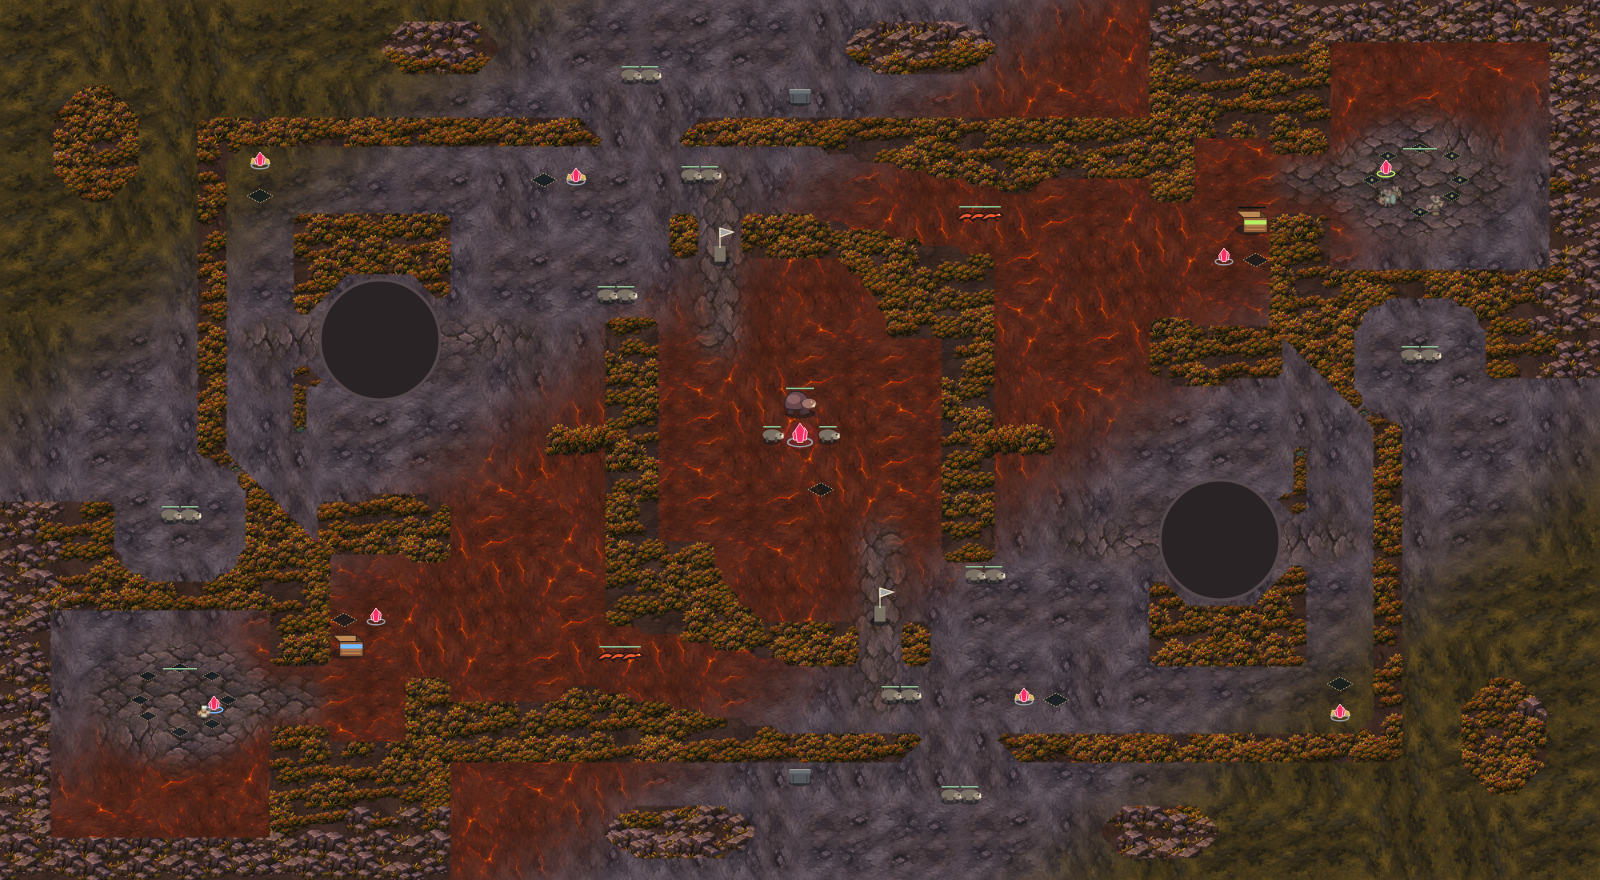
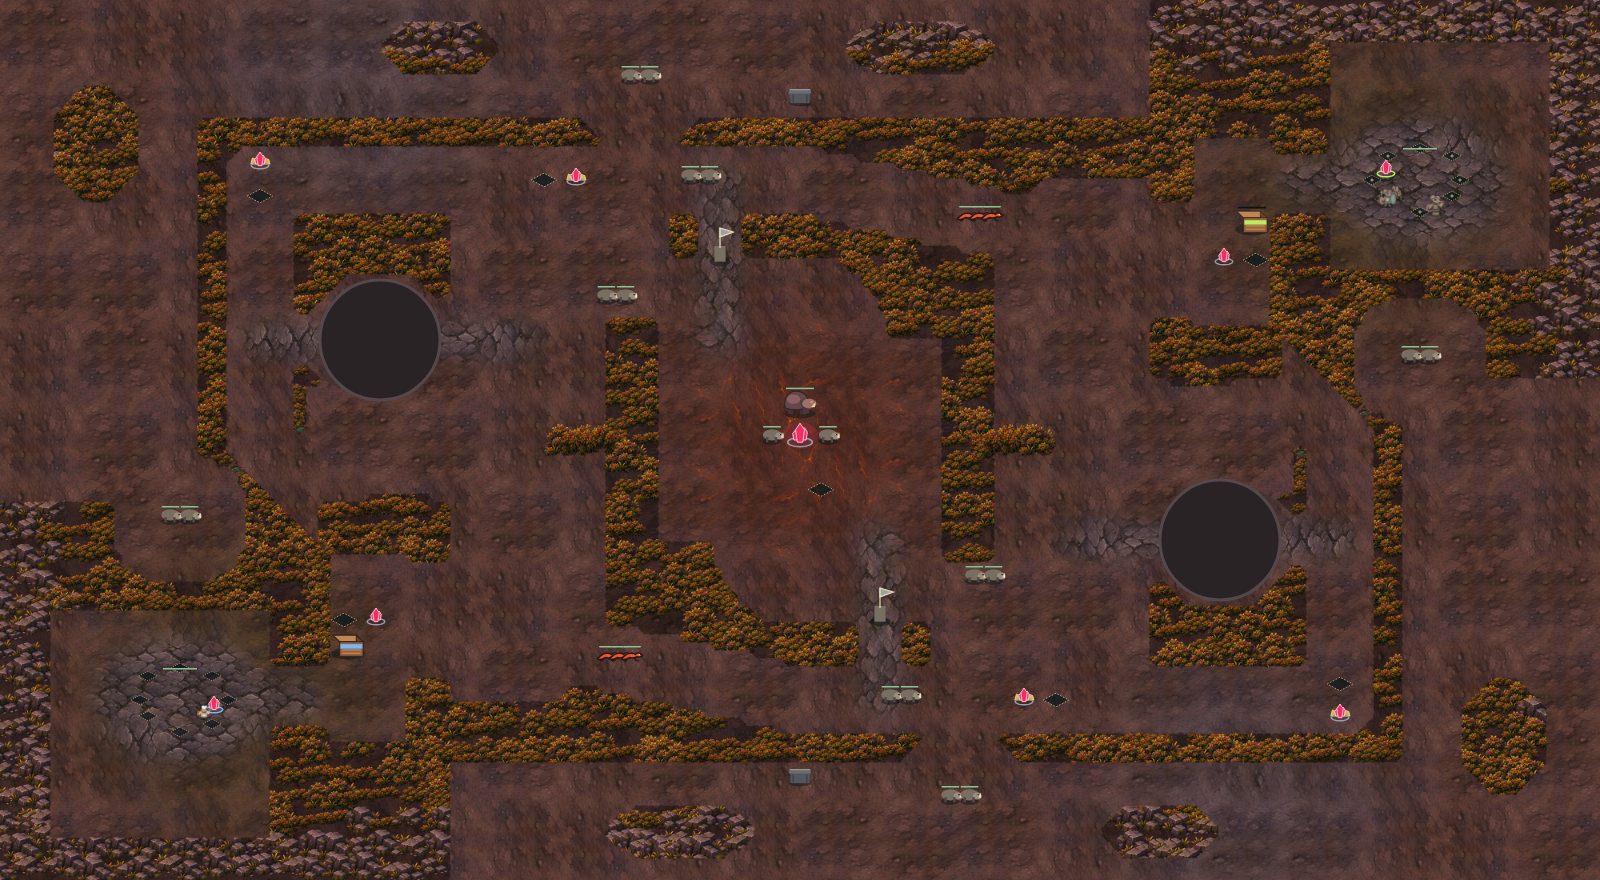
Codex : #314 Intégration DA 1/3 : le sol et les haies utilisent les tuiles peintes

diff --git a/public/game/terrain.js b/public/game/terrain.js
@@ -1,8 +1,14 @@
-const ZONE_AXIS_X = 0.58;
-const ZONE_AXIS_Y = 0.42;
+// The noise can add at most 0.15 to the distance slope, so the fade spans over 450 px.
+const ZONE_FADE = 520;
+const ZONE_NOISE_SCALE = 760;
+const GROUND_ZONES = [
+  { texture: 'sol-cendres', offsetX: -1120, offsetY: -900, radius: 40, strength: 0.56 },
+  { texture: 'sol-braises', offsetX: 0, offsetY: 0, radius: 25, strength: 0.62 },
+  { texture: 'sol-mousse', offsetX: -1420, offsetY: 630, radius: 45, strength: 0.58 },
+];
 const TILE_SIZE = 256;
 const TILE_STEP = 200;
-const GROUND = ['sol-terre', 'sol-cendres', 'sol-braises', 'sol-mousse', 'sol-paves'];
+const GROUND = ['sol-terre', ...GROUND_ZONES.map(({ texture }) => texture), 'sol-paves'];
 const HEDGES = ['haie-1', 'haie-2', 'haie-3'];
 const ROCKS = ['rocher-1', 'rocher-2', 'rocher-3'];
 const PONDS = ['mare-1', 'mare-2'];
@@ -12,13 +18,29 @@ function smoothstep(start, end, value) {
   return position * position * (3 - 2 * position);
 }
 
+function zoneNoise(x, y) {
+  const column = Math.floor(x / ZONE_NOISE_SCALE);
+  const row = Math.floor(y / ZONE_NOISE_SCALE);
+  const across = smoothstep(0, 1, x / ZONE_NOISE_SCALE - column);
+  const down = smoothstep(0, 1, y / ZONE_NOISE_SCALE - row);
+  const top = cellHash(row, column) * (1 - across) + cellHash(row, column + 1) * across;
+  const bottom = cellHash(row + 1, column) * (1 - across) + cellHash(row + 1, column + 1) * across;
+  return (top * (1 - down) + bottom * down) / 0xffffffff;
+}
+
 export function terrainZone(x, y, width, height) {
-  // Fold the diagonal gradient at the center so every region has a rotated counterpart.
-  const projection = (x - width / 2) * (ZONE_AXIS_X / width) + (y - height / 2) * (ZONE_AXIS_Y / height);
-  const distance = Math.round(Math.abs(projection) * 1e9) / 1e9;
-  const braises = 1 - smoothstep(0.075, 0.145, distance);
-  const marecage = smoothstep(0.26, 0.34, distance);
-  return [1 - braises - marecage, braises, marecage];
+  const dx = x - width / 2;
+  const dy = y - height / 2;
+  // Average opposite points to keep the low-frequency distortion rotationally symmetric.
+  const distortion = 52 * (zoneNoise(dx, dy) + zoneNoise(-dx, -dy) - 1);
+  const accents = GROUND_ZONES.map(({ offsetX, offsetY, radius, strength }) => {
+    const distance = Math.min(
+      Math.hypot(dx - offsetX, dy - offsetY),
+      Math.hypot(dx + offsetX, dy + offsetY),
+    );
+    return strength * (1 - smoothstep(radius, radius + ZONE_FADE, distance + distortion));
+  });
+  return [1 - accents.reduce((sum, weight) => sum + weight, 0), ...accents];
 }
 
 function cellHash(row, column) {
@@ -55,26 +77,27 @@ export function hedgeOffset(row, column) {
   };
 }
 
-function zoneMask(context, width, height, zone) {
-  const axisX = ZONE_AXIS_X / width;
-  const axisY = ZONE_AXIS_Y / height;
-  const halfLength = 0.5 / (axisX * axisX + axisY * axisY);
-  const deltaX = axisX * halfLength;
-  const deltaY = axisY * halfLength;
-  const gradient = context.createLinearGradient(
-    width / 2 - deltaX, height / 2 - deltaY,
-    width / 2 + deltaX, height / 2 + deltaY,
-  );
+function createZoneMasks(sim) {
+  const { W, H, CELL, ROWS, COLS } = sim;
+  const masks = GROUND_ZONES.map(() => raster(COLS, ROWS));
+  const pixels = masks.map((mask) => mask.createImageData(COLS, ROWS));
 
-  for (let stop = 0; stop <= 100; stop++) {
-    const position = stop / 100;
-    const x = width / 2 + (2 * position - 1) * deltaX;
-    const y = height / 2 + (2 * position - 1) * deltaY;
-    const weights = terrainZone(x, y, width, height);
-    gradient.addColorStop(position, `rgba(0, 0, 0, ${weights[zone]})`);
+  for (let row = 0; row < ROWS; row++) {
+    for (let column = 0; column < COLS; column++) {
+      const weights = terrainZone((column + 0.5) * CELL, (row + 0.5) * CELL, W, H);
+      const alpha = (row * COLS + column) * 4 + 3;
+      let accumulated = weights[0];
+      for (let zone = 0; zone < pixels.length; zone++) {
+        const weight = weights[zone + 1];
+        accumulated += weight;
+        // Source-over attenuates the existing layers. Normalize against the layers drawn so far.
+        pixels[zone].data[alpha] = Math.round(255 * weight / accumulated);
+      }
+    }
   }
-  context.fillStyle = gradient;
-  context.fillRect(0, 0, width, height);
+
+  masks.forEach((mask, zone) => mask.putImageData(pixels[zone], 0, 0));
+  return masks;
 }
 
 function traceBlockedGround(context, sim, isWalkable) {
@@ -242,7 +265,7 @@ function paintObstacles(context, earth, assets, sim) {
   traceBlockedGround(context, sim, isWalkable);
   context.clip();
   context.drawImage(earth, 0, 0);
-  context.fillStyle = 'rgba(26, 20, 11, 0.36)';
+  context.fillStyle = 'rgba(0, 0, 0, 0.36)';
   context.fillRect(0, 0, sim.W, sim.H);
 
   const sides = [[-1, 0], [0, -1], [0, 1], [1, 0]];
@@ -304,25 +327,21 @@ function createSkirmishTerrain(assets, sim) {
   paintPavingMask(pavingMask, sim);
   paintTiles(earth, assets['sol-terre']);
   ground.drawImage(earth.canvas, 0, 0);
-  paintTiles(layer, assets['sol-cendres']);
-  ground.drawImage(layer.canvas, 0, 0);
-
-  const overlays = [['sol-braises', 1], ['sol-mousse', 2], ['sol-paves', null]];
-  for (const [texture, zone] of overlays) {
+  const zoneMasks = createZoneMasks(sim);
+  const overlays = GROUND_ZONES.map(({ texture }, zone) => [texture, zoneMasks[zone]]);
+  overlays.push(['sol-paves', pavingMask]);
+  for (const [texture, mask] of overlays) {
     layer.clearRect(0, 0, W, H);
     paintTiles(layer, assets[texture]);
     layer.globalCompositeOperation = 'destination-in';
-    if (zone === null) {
-      layer.drawImage(pavingMask.canvas, 0, 0, W, H);
-    } else {
-      zoneMask(layer, W, H, zone);
-    }
+    layer.drawImage(mask.canvas, 0, 0, W, H);
     layer.globalCompositeOperation = 'source-over';
     ground.drawImage(layer.canvas, 0, 0);
   }
 
+  // Apply all ground masks before restoring the neutral obstacle bed and drawing the sprites.
   paintObstacles(ground, earth.canvas, assets, sim);
-  for (const scratch of [earth, layer, pavingMask]) {
+  for (const scratch of [earth, layer, pavingMask, ...zoneMasks]) {
     scratch.canvas.width = 0;
   }
   return ground.canvas;
